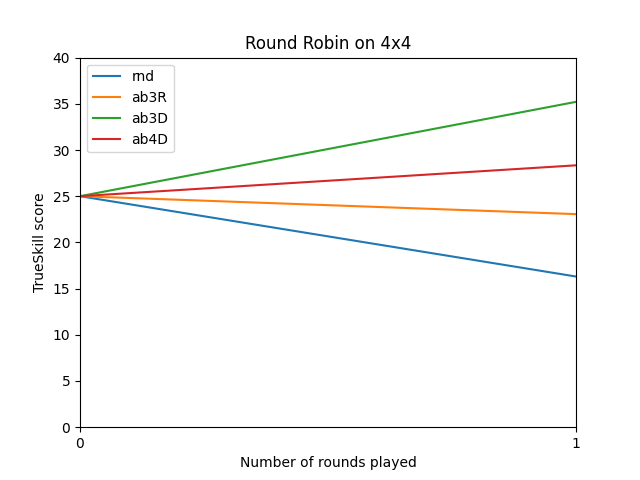
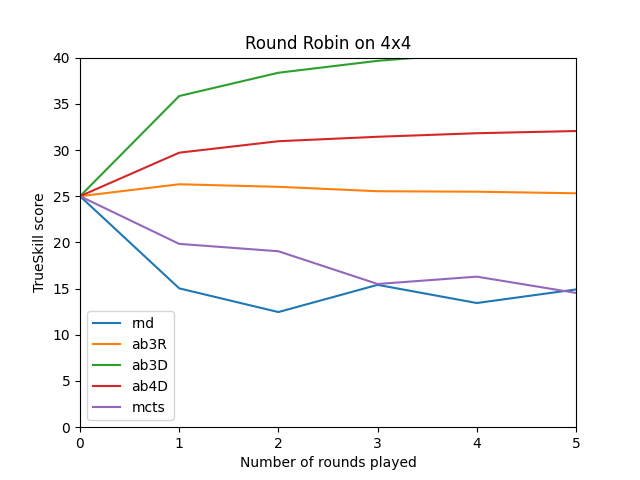
MCTS now in Main

diff --git a/game.py b/game.py
@@ -31,7 +31,7 @@ class Game():
 
         self.Play_single_bot_match(self.bot_list[0], self.bot_list[1], self.board)
 
-    def Play_TrueSkill_match(self, rounds, bot1, bot2):
+    def Play_TrueSkill_match(self, board, rounds, bot1, bot2):
         """Plays a tourney with the given bots for the given round. Prints results to screen.
 
         Args:
@@ -47,7 +47,7 @@ class Game():
         r_bot1 = Rating(bot1.rating)
         r_bot2 = Rating(bot2.rating)
 
-        outcome = self.Play_single_bot_match(bot1, bot2, self.board) #TODO: should not be self.board ideally
+        outcome = self.Play_single_bot_match(bot1, bot2, board) #TODO: should not be self.board ideally
         # print('outcome', outcome)
         if outcome == 0:
             r_bot1, r_bot2 = rate_1vs1(r_bot1, r_bot2, True) # it is a draw
@@ -166,7 +166,7 @@ class Game():
     def Perform_experiments(self, board, bot_list):
         """This class performs the experiments as required in the Assignment
         """        
-        self.tourney_rounds = 1
+        self.tourney_rounds = 5
 
         column_names = []
         rating_dict = {}
@@ -183,7 +183,7 @@ class Game():
         for i in range(self.tourney_rounds):
             print("Round", i)
             # Play a round robin between the players
-            bot_list = self.Play_round_robin(bot_list)
+            bot_list = self.Play_round_robin(bot_list, board)
 
             # Empty dict and add new ratings           
             rating_dict = {}
@@ -196,7 +196,7 @@ class Game():
         print(df)
         self.Create_plot(df, 'round_robin')
 
-    def Play_round_robin(self, bot_list):
+    def Play_round_robin(self, bot_list, board):
         """Creates and plays a round robin tournament with the bots given
 
         Args:
@@ -229,7 +229,7 @@ class Game():
             # Print their names
             print("{} vs {}".format(first_participant_bot.name, second_participant_bot.name))
             
-            first_participant_bot, second_participant_bot = self.Play_TrueSkill_match(self.tourney_rounds, first_participant_bot, second_participant_bot)
+            first_participant_bot, second_participant_bot = self.Play_TrueSkill_match(self.tourney_rounds, board, first_participant_bot, second_participant_bot)
             # Make sure this match is marked as played
             tournament.add_win(match, first_participant_bot)
             matches = tournament.get_active_matches()

diff --git a/main.py b/main.py
@@ -17,7 +17,7 @@ from game import Game
 class MyBot():
     """Bot Class. Has all info a bot needs. Can be given to the Bot class in bot.py
     """    
-    def __init__(self, name, algorithm, search_depth=-1, use_dijkstra=False,
+    def __init__(self, name, algorithm, iterations=500, search_depth=-1, use_dijkstra=False,
             id_time_limit=0, use_tt=False):
         self.name = name
         self.rating = 25
@@ -27,6 +27,8 @@ class MyBot():
 
         self.id_time_limit = id_time_limit
         self.use_tt = use_tt
+
+        self.iterations = iterations
 
 if __name__ == '__main__':
 
@@ -39,12 +41,14 @@ if __name__ == '__main__':
     bot2 = MyBot('ab3R', 'alphabeta', search_depth=3, use_dijkstra=False, use_tt=False, id_time_limit=0)
     bot3 = MyBot('ab3D', 'alphabeta', search_depth=3, use_dijkstra=True, use_tt=False, id_time_limit=0)
     bot4 = MyBot('ab4D', 'alphabeta', search_depth=4, use_dijkstra=True, use_tt=False, id_time_limit=0)
+    bot5 = MyBot('mcts', 'mcts', iterations=500)
 
     bot_list = [
         bot1,
         bot2,
         bot3,
-        bot4
+        bot4,
+        bot5
         ]
 
     game = Game(board_dimension, perform_experiments, bot_list)
